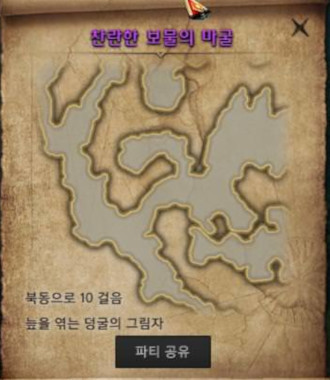
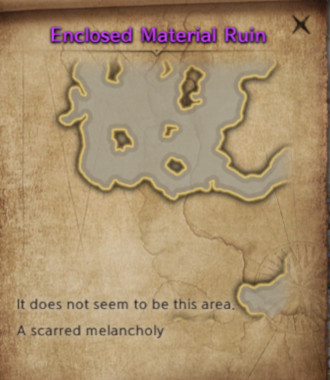
added treasuremaps

diff --git a/src/data/markers_artemis.js b/src/data/markers_artemis.js
@@ -1302,6 +1302,34 @@
             "type": MarkerTypeEnum.TreasureMap,
             "id": 160,
             "hintImage": "artemis/TreasureMap24.jpg"
+        },
+        {
+            "x": -427.4,
+            "y": 245.84,
+            "type": MarkerTypeEnum.TreasureMap,
+            "id": 161,
+            "hintImage": "artemis/TreasureMap25.jpg"
+        },
+        {
+            "x": -428.59,
+            "y": 267.27,
+            "type": MarkerTypeEnum.TreasureMap,
+            "id": 162,
+            "hintImage": "artemis/TreasureMap26.jpg"
+        },
+        {
+            "x": -413.6,
+            "y": 249.4,
+            "type": MarkerTypeEnum.TreasureMap,
+            "id": 163,
+            "hintImage": "artemis/TreasureMap27.jpg"
+        },
+        {
+            "x": -253.85,
+            "y": 292.65,
+            "type": MarkerTypeEnum.TreasureMap,
+            "id": 164,
+            "hintImage": "artemis/TreasureMap28.jpg"
         }
     ];
 

diff --git a/index.html b/index.html
@@ -385,16 +385,6 @@
                                      style="width: 180px; height: 228px;"/>
                                 #6 ???
                             </div>
-                            <div class="card" style="margin: 8px">
-                                <img class="card-img-top" src="images/treasuremaps/unknown7.jpg"
-                                     style="width: 180px; height: 228px;"/>
-                                #7 ???
-                            </div>
-                            <div class="card" style="margin: 8px">
-                                <img class="card-img-top" src="images/treasuremaps/unknown8.jpg"
-                                     style="width: 180px; height: 228px;"/>
-                                #8 ???
-                            </div>
                         </div>
                     </div>
                 </div>

diff --git a/src/data/markers_islands.js b/src/data/markers_islands.js
@@ -1204,6 +1204,13 @@
             "y": 323.07,
             "type": MarkerTypeEnum.Mokoko,
             "id": 202
+        },
+        {
+            "x": -435.37,
+            "y": 379.31,
+            "type": MarkerTypeEnum.TreasureMap,
+            "id": 203,
+            "hintImage": "islands/TreasureMap1.jpg"
         }
     ];
 

diff --git a/src/data/update_data.js b/src/data/update_data.js
@@ -6,7 +6,7 @@
             e: [
                 'Added "What\'s New" Dialog',
                 'Added 5 new FAQ Entries',
-                'Added 3 Treasuremap\'s'
+                'Added 8 Treasuremap\'s and Identified some'
             ]
         }
     };
